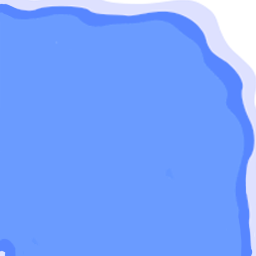
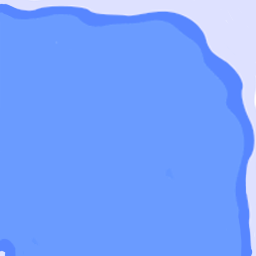
Todos los tilesets hechos

Changed region(s): [[0.75, 0.0, 1.0, 0.2812], [0.4062, 0.0, 0.6562, 0.0312]]

diff --git a/GateCrasher/js/gameController.js b/GateCrasher/js/gameController.js
@@ -254,14 +254,14 @@ $(document).ready(function(){
     preload(
         "res/background/heaven_horizontal.png",
         "res/background/heaven_vertical.png",
-        "res/background/snow_corner1.png",
-        "res/background/snow_corner2.png",
-        "res/background/snow_corner3.png",
-        "res/background/snow_corner4.png",
-        "res/background/snow_intersection.png",
+        "res/background/heaven_corner1.png",
+        "res/background/heaven_corner2.png",
+        "res/background/heaven_corner3.png",
+        "res/background/heaven_corner4.png",
+        "res/background/heaven_intersectiondown.png",
         "res/background/snow_end.png",
-        "res/background/snow_empty.png",
-        "res/background/snow_intersection2.png",
+        "res/background/cloud.png",
+        "res/background/heaven_intersectionder.png",
         "res/background/grass_corner1.png",
         "res/background/grass_empty.png",
         "res/background/grass_horizontal.png",
